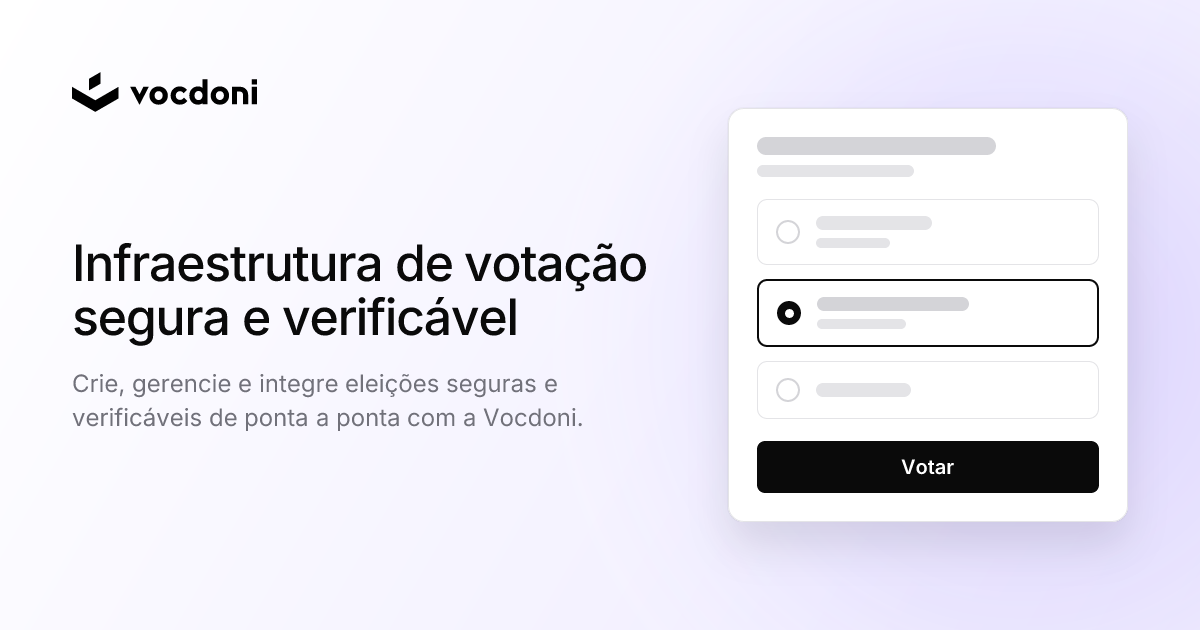
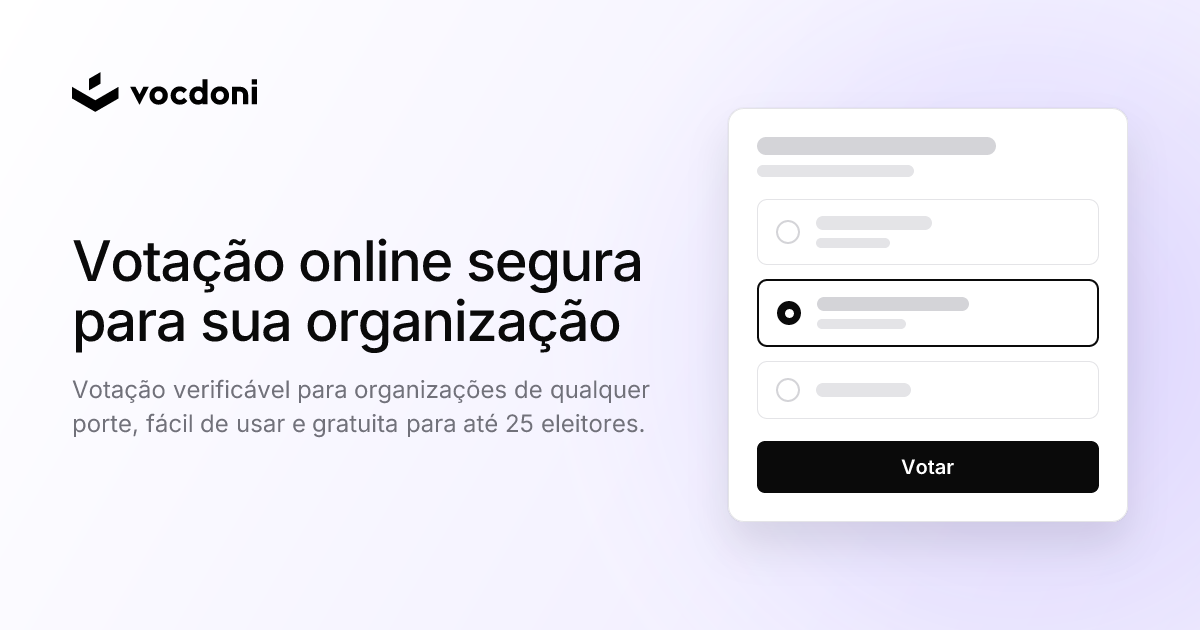
feat(seo): user-centric copy for the open graph card
The card now reads from its own og.headline / og.tagline keys instead of
the SEO title and description: "Secure online voting for your
organization" over "Verifiable voting for organizations of any size,
easy to use and free for up to 25 voters", translated for every locale
following src/i18n/contexts. The headline doubles as og:image:alt; og.*
is listed in the extractor's preservePatterns because only the generator
reads the tagline.

Changed region(s): [[0.0617, 0.3619, 0.555, 0.573], [0.0617, 0.6032, 0.555, 0.6937]]

diff --git a/src/pages/shared/DefaultPageHead.tsx b/src/pages/shared/DefaultPageHead.tsx
@@ -1,7 +1,12 @@
 import { usePageContext } from 'vike-react/usePageContext'
 import i18n from '~i18n'
 import { getDefaultPageDescription, getDefaultPageTitle, resolveRouteLanguage } from './defaultHeadMeta'
-import { getOpenGraphImagePath, OPEN_GRAPH_IMAGE_HEIGHT, OPEN_GRAPH_IMAGE_WIDTH } from './openGraphImage'
+import {
+  getOpenGraphImageAlt,
+  getOpenGraphImagePath,
+  OPEN_GRAPH_IMAGE_HEIGHT,
+  OPEN_GRAPH_IMAGE_WIDTH,
+} from './openGraphImage'
 import { resolvePublicOrigin } from './publicOrigin'
 
 // Default social tags for pages without data-driven metadata (the SPA
@@ -12,7 +17,8 @@ const DefaultPageHead = () => {
   const pageContext = usePageContext()
   const title = getDefaultPageTitle(pageContext)
   const description = getDefaultPageDescription(pageContext)
-  const imagePath = getOpenGraphImagePath(resolveRouteLanguage(pageContext) ?? i18n.language)
+  const language = resolveRouteLanguage(pageContext) ?? i18n.language
+  const imagePath = getOpenGraphImagePath(language)
   const origin = resolvePublicOrigin(pageContext)
   const image = origin ? new URL(imagePath, origin).toString() : imagePath
 
@@ -23,7 +29,7 @@ const DefaultPageHead = () => {
       <meta property='og:image' content={image} />
       <meta property='og:image:width' content={String(OPEN_GRAPH_IMAGE_WIDTH)} />
       <meta property='og:image:height' content={String(OPEN_GRAPH_IMAGE_HEIGHT)} />
-      <meta property='og:image:alt' content={title} />
+      <meta property='og:image:alt' content={getOpenGraphImageAlt(language)} />
       <meta name='twitter:card' content='summary_large_image' />
       <meta name='twitter:site' content='@vocdoni' />
       <meta name='twitter:title' content={title} />

diff --git a/src/pages/shared/DefaultPageHead.test.tsx b/src/pages/shared/DefaultPageHead.test.tsx
@@ -1,5 +1,6 @@
 import { renderToStaticMarkup } from 'react-dom/server'
 import { describe, expect, it, vi } from 'vitest'
+import i18n from '~i18n'
 
 const pageContext = vi.hoisted(() => ({ current: {} as any }))
 
@@ -23,7 +24,7 @@ describe('DefaultPageHead', () => {
     expect(html).toContain('name="twitter:image" content="https://app.example.org/assets/og/ca.png"')
     expect(html).toContain('property="og:image:width" content="1200"')
     expect(html).toContain('property="og:image:height" content="630"')
-    expect(html).toContain('property="og:image:alt"')
+    expect(html).toContain(`property="og:image:alt" content="${i18n.t('og.headline', { lng: 'ca' })}"`)
     expect(html).toContain('name="twitter:card" content="summary_large_image"')
     expect(html).toContain('property="og:type" content="website"')
     expect(html).toContain('property="og:site_name" content="Vocdoni"')

diff --git a/src/pages/shared/openGraphImage.ts b/src/pages/shared/openGraphImage.ts
@@ -1,3 +1,4 @@
+import i18n from '~i18n'
 import { baseLanguages } from '~i18n/languages'
 
 // Generated by `pnpm og:generate` (scripts/og); one card per locale, English for anything else.
@@ -9,3 +10,9 @@ export const getOpenGraphImagePath = (language?: string) => {
   const lang = language && language in baseLanguages ? language : fallbackLanguage
   return `/assets/og/${lang}.png`
 }
+
+// The headline printed on the card, which is what the image shows a reader. The source (en) copy
+// lives in src/i18n/locales/en/common.json, next to `og.tagline`; the defaultValue is only a runtime
+// fallback kept in sync with it, as in defaultHeadMeta.ts.
+export const getOpenGraphImageAlt = (language?: string) =>
+  i18n.t('og.headline', { lng: language, defaultValue: 'Secure online voting for your organization' })

diff --git a/i18next.config.ts b/i18next.config.ts
@@ -17,6 +17,10 @@ export default defineConfig({
     functions: ['t', '*.t'],
     transComponents: ['Trans'],
     ignoreNamespaces: ['react-components'],
+    // The Open Graph card copy (`og.*`) is read by scripts/og/generate.mjs, outside the extractor's
+    // input; only `og.headline` also appears in src (as og:image:alt), so keep the rest from being
+    // pruned as unused.
+    preservePatterns: ['og.*'],
   },
   types: {
     input: ['src/i18n/locales/{{language}}/{{namespace}}.json'],

diff --git a/AGENTS.md b/AGENTS.md
@@ -53,7 +53,7 @@
 - `pnpm test:stress`: run the load-test harness self-tests in `stress/` (excluded from `pnpm test`; run after changing that directory).
 - `pnpm test:e2e:stack`: boot the disposable backend and run the Playwright end-to-end suite (needs docker).
 - `pnpm translations`: extract i18n keys from source code and update locale files.
-- `pnpm og:generate`: regenerate the localized Open Graph cards in `public/assets/og/` (see `scripts/og/`). Run it after changing `head.title`, `head.description` or the react-components `vote.button` label in any locale, and review the PNGs by eye.
+- `pnpm og:generate`: regenerate the localized Open Graph cards in `public/assets/og/` (see `scripts/og/`). Run it after changing `og.headline`, `og.tagline` or the react-components `vote.button` label in any locale, and review the PNGs by eye.
 - `pnpm chakra:typegen`: regenerate Chakra typings after theme/system changes.
 
 ## Coding Style & Naming Conventions
@@ -68,7 +68,7 @@
 - After adding or changing translation keys, always run `pnpm translations`.
 - Review generated locale diffs and translate new keys for every supported locale: each directory under `src/i18n/locales/` (`ca`, `de`, `el`, `es`, `eu`, `fr`, `it`, `pt`, `pt-br`). `pnpm translations` adds them as empty strings, and with `returnEmptyString: false` an empty value falls back to English.
 - Avoid leaving partial localization changes unreviewed.
-- The social preview images are rendered from locale copy (`head.title`, `head.description`, react-components `vote.button`) and committed under `public/assets/og/`; when any of those strings change, run `pnpm og:generate` and commit the updated PNGs with the translation.
+- The social preview images are rendered from locale copy (`og.headline`, `og.tagline`, react-components `vote.button`) and committed under `public/assets/og/`; when any of those strings change, run `pnpm og:generate` and commit the updated PNGs with the translation. `og.tagline` is only read by the generator, so `i18next.config.ts` lists `og.*` in `preservePatterns` to keep extraction from pruning it.
 - Per-locale translation guidance lives in `src/i18n/contexts/` (one file per locale, e.g. `es.md`, `ca.md`; `en` is the source language and has none). These files are prompts that capture tone, register, glossary terms, and non-translatable terms (placeholders, component tags, brand/product names) for each language. Read the whole file, glossary included, before translating or reviewing strings for a locale, follow it, and keep it updated whenever its conventions change.
 - `react-components.json` overrides the strings `@vocdoni/react-components` ships, which are English only. `pnpm translations` does not manage it, so when the package adds keys (e.g. after an upgrade), add their translations by hand to every non-English locale. English falls back to the package's own text and only needs a key to change its wording.
 - `src/i18n/locales/index.test.ts` fails when a locale has an empty, whitespace-only or null value, or lacks a key or CLDR plural form (e.g. `_many`) that English has. For `react-components`, "English" is the keys the installed package ships plus the app's own. It does not compare placeholders, so check that `{{ … }}` variables and component tags match English yourself.
